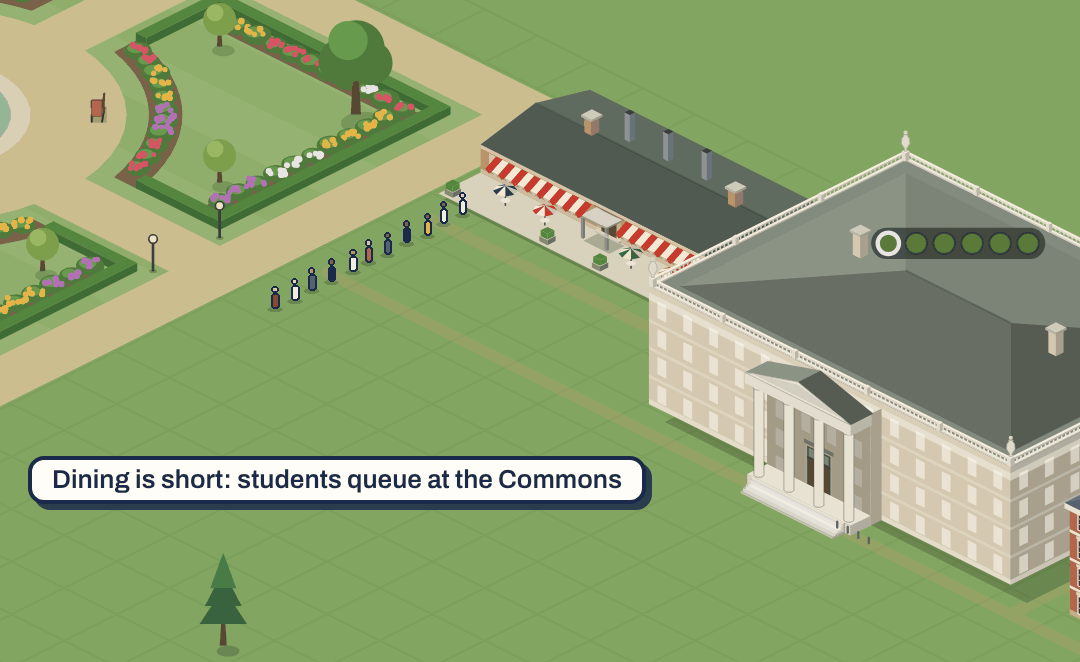
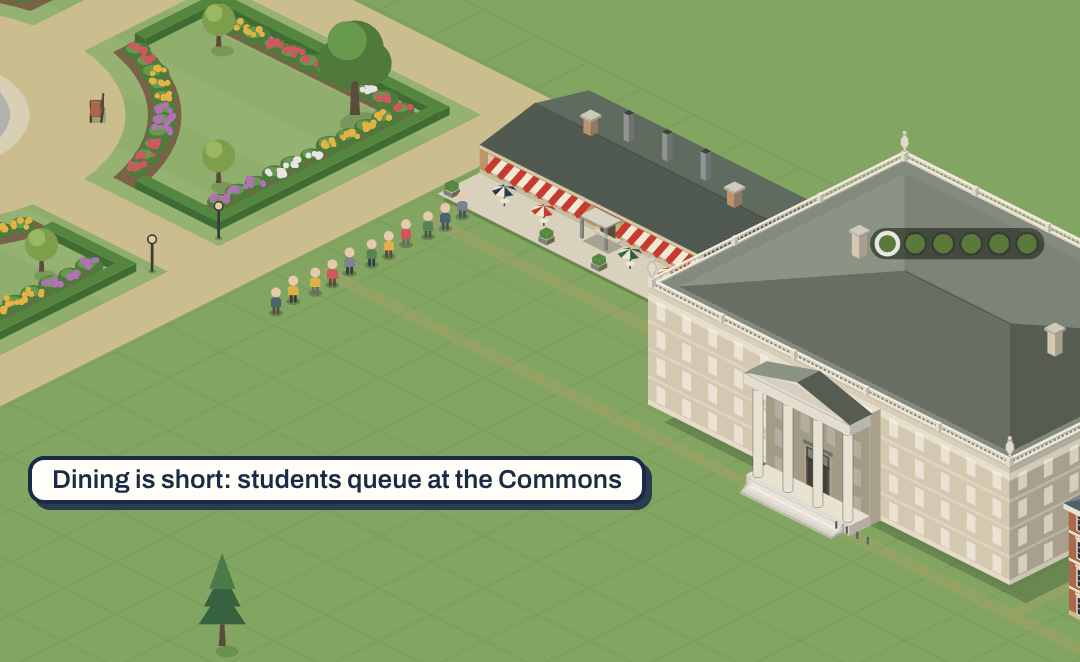
Plan 124: the owner's comments on the mock-ups (no prestige chip, no staked plot, dots not windows, walkers for crowds); a large path network and upgraded venues mocked
Claude-Session: https://claude.ai/code/session_01B1CvZALYnVja7ib6yhptH3

diff --git a/docs/plans/124-subtraction-as-decided/mockups.html b/docs/plans/124-subtraction-as-decided/mockups.html
@@ -42,6 +42,9 @@ figure img { width: 100%; height: auto; display: block; border: 1.5px solid var(
 figcaption { font: 500 12px var(--mono); letter-spacing: .06em; text-transform: uppercase; color: var(--muted); }
 figcaption b { color: var(--primary); font-weight: 500; }
 .say { margin: 0; max-width: 78ch; }
+.dec { justify-self: start; font: 600 12px var(--mono); letter-spacing: .05em; text-transform: uppercase; padding: 2px 9px; border-radius: 6px; border: 1.5px solid currentColor; }
+.dec.ok { color: #1f6b3a; } .dec.no { color: #a13a3a; } .dec.rev { color: #8a5a00; } .dec.ask { color: #3a4a8e; }
+.mock.dropped { opacity: .62; }
 .note { background: var(--note); border: 1.5px dashed var(--line); border-radius: 8px; padding: 10px 12px; max-width: 80ch; }
 .note strong { color: var(--primary); }
 footer { margin-top: 40px; font-size: 13px; color: var(--muted); max-width: 72ch; }
@@ -52,7 +55,7 @@ footer { margin-top: 40px; font-size: 13px; color: var(--muted); max-width: 72ch
   <header>
     <div class="eyebrow">Plan 124 · PRs J, K, L and M · before any code</div>
     <h1>What the additions will look like</h1>
-    <p class="lede">Each mock-up is the real game, from a saved run, shot as it is today and again with the proposed change drawn into the live page in the game's own fonts and colours. Map additions (paths, people, pennants, a staked plot) are painted over the screenshot. Numbers are the save's own except where a note says otherwise.</p>
+    <p class="lede"><b>Revised after your comments.</b> Each block says what you decided. The queue and the title crowd now use copies of the game's own walkers, there is a second path mock-up on a large campus, and a new one shows the fully upgraded stadium and multi-sport field on a game week. Each mock-up is the real game, from a saved run, shot as it is today and again with the proposed change drawn into the live page in the game's own fonts and colours. Map additions (paths, people, pennants, a staked plot) are painted over the screenshot. Numbers are the save's own except where a note says otherwise.</p>
     <nav aria-label="Jump to a PR"><a href="#pr-j">J · Growth lever</a><a href="#pr-k">K · Pillar bars</a><a href="#pr-l">L · Map carries the tabs</a><a href="#pr-m">M · Big moments</a></nav>
   </header>
 
@@ -62,6 +65,7 @@ footer { margin-top: 40px; font-size: 13px; color: var(--muted); max-width: 72ch
 
     <div class="mock">
       <h3>1. The admissions hall in course blocks</h3>
+      <span class="dec ask">Your comment: keep as is · read as no change, to confirm</span>
       <div class="pair">
         <figure><img src="j1-hall-before.png" alt="The admissions hall today: a grid of 143 empty seats" loading="lazy"><figcaption>Today</figcaption></figure>
         <figure><img src="j1-hall-after.png" alt="The hall with seats grouped into 16 blocks of nine, and a dashed gold block marked +80" loading="lazy"><figcaption><b>Proposed</b></figcaption></figure>
@@ -71,6 +75,7 @@ footer { margin-top: 40px; font-size: 13px; color: var(--muted); max-width: 72ch
 
     <div class="mock">
       <h3>2. "+80 places" beside the next Develop</h3>
+      <span class="dec ok">Approved</span>
       <div class="pair stack">
         <figure><img src="j2-develop-before.png" alt="A Curriculum row today: Develop button, cost and Choose" loading="lazy"><figcaption>Today</figcaption></figure>
         <figure><img src="j2-develop-after.png" alt="The same row with a green +80 places chip after the cost" loading="lazy"><figcaption><b>Proposed</b></figcaption></figure>
@@ -80,11 +85,23 @@ footer { margin-top: 40px; font-size: 13px; color: var(--muted); max-width: 72ch
 
     <div class="mock">
       <h3>3. The path network lights up while the path tool is held</h3>
+      <span class="dec rev">Revised: a larger network below</span>
       <div class="pair">
         <figure><img src="j3-paths-before.png" alt="The campus with the path tool armed, today" loading="lazy"><figcaption>Today</figcaption></figure>
         <figure><img src="j3-paths-after.png" alt="The same view: the cross path tinted gold, the fountain plaza untinted and labelled not joined yet" loading="lazy"><figcaption><b>Proposed</b></figcaption></figure>
       </div>
       <p class="say">Paths joined to Founders Hall turn gold; anything not joined stays plain, so a path that stops one tile short shows itself. In the real version a building's doorstep also lights when the network reaches it.</p>
+    </div>
+
+    <div class="mock">
+      <h3>3b. The same, on a year-30 campus</h3>
+      <span class="dec rev">New</span>
+      <div class="pair">
+        <figure><img src="j4-paths-before.png" alt="A large year-30 campus with a grid of paths, path tool armed" loading="lazy"><figcaption>Today</figcaption></figure>
+        <figure><img src="j4-paths-after.png" alt="The same campus: almost every path gold; one block at lower left plain, labelled not joined" loading="lazy"><figcaption><b>Proposed</b></figcaption></figure>
+      </div>
+      <p class="say">A campus of about 1,500 path tiles. Every path joined to Founders Hall is gold. The block at the lower left is cut off by one-tile gaps at the six places its walks met the rest, so it stays plain. That is the case a player can't see today. The tint here was made by re-rendering the joined tiles in another material and colouring exactly the pixels that changed, so it follows the paths behind trees and buildings.</p>
+      <p class="note"><strong>Note:</strong> the gaps were cut into a copy of the save for this mock-up; the real campus is fully joined.</p>
     </div>
   </section>
 
@@ -92,23 +109,21 @@ footer { margin-top: 40px; font-size: 13px; color: var(--muted); max-width: 72ch
     <div class="pr-head"><h2><span>K</span> · Prestige as four pillar bars</h2>
       <p>Today the links from curriculum, research, student life and athletics into prestige are only text in the summer review and History. One small figure carries them instead.</p></div>
 
-    <div class="mock">
+    <div class="mock dropped">
       <h3>1. The prestige chip</h3>
-      <div class="pair">
-        <figure><img src="k-chip-before.png" alt="The band today: Rank, Enrolled, Prestige 50.3, Satisfaction" loading="lazy"><figcaption>Today</figcaption></figure>
-        <figure><img src="k-chip-after.png" alt="The Prestige chip with a thin stacked bar and a tick under the number" loading="lazy"><figcaption><b>Proposed</b></figcaption></figure>
-      </div>
+      <span class="dec no">Not doing: the chip stays as it is</span>
       <p class="say">The bar under the number is prestige split by pillar: academics (navy), research (green), student life (maroon) and athletics (gold). The thin tick is where prestige is heading. The gap between the fill and the tick is the lag the summer's cap creates, which today nothing shows.</p>
     </div>
 
     <div class="mock">
       <h3>2. The same bar at the top of the tab that feeds it</h3>
+      <span class="dec ok">Approved</span>
       <div class="pair stack">
         <figure><img src="k-head-before.png" alt="The top of the Curriculum tab today" loading="lazy"><figcaption>Today</figcaption></figure>
         <figure><img src="k-head-after.png" alt="The top of the Curriculum tab with the academics bar lit and a short line of figures" loading="lazy"><figcaption><b>Proposed</b></figcaption></figure>
       </div>
       <p class="say">On Curriculum the academics part is lit and the others fade. Research, Students and Athletics do the same for theirs. At the summer the bars fill, in place of the "stands at N of 150" lines that PR B cuts.</p>
-      <p class="note"><strong>Note:</strong> the pillar split (25.6, 6.1, 13.3, 5.3) and the target (53.8) are illustrative; the save's total of 50.3 is real. The chip grew a few pixels taller here. The real one would fit the bar inside today's chip height, and needs checking at 1280×720.</p>
+      <p class="note"><strong>Note:</strong> the pillar split (25.6, 6.1, 13.3, 5.3) and the target (53.8) are illustrative; the save's total of 50.3 is real. With the chip left as it is, the tab's bar is the only place the split shows, and the target tick moves there.</p>
     </div>
   </section>
 
@@ -118,21 +133,23 @@ footer { margin-top: 40px; font-size: 13px; color: var(--muted); max-width: 72ch
 
     <div class="mock">
       <h3>1. A course with no teacher, on its hall</h3>
+      <span class="dec ok">Approved: the program's dot, not windows</span>
       <div class="pair">
         <figure><img src="l1-hall-before.png" alt="Founders Hall up close with its row of program dots above the roof" loading="lazy"><figcaption>Today</figcaption></figure>
         <figure><img src="l1-hall-after.png" alt="The same hall with one program dot turned dark with a dashed red ring" loading="lazy"><figcaption><b>Proposed</b></figcaption></figure>
       </div>
       <p class="say">The program's dot above the hall goes dark with a red ring while one of its courses has no teacher, and comes back when someone is appointed.</p>
-      <p class="note"><strong>A change from the plan, for you to confirm:</strong> the plan said "a dark window per course". At the closest zoom a window is three or four pixels wide, and darkening one barely shows; I tried it. The hall already has a dot per program, so darkening the dot reads at normal zoom and reuses a signal players know. I'd make PR L use the dot unless you'd rather keep windows.</p>
+      
     </div>
 
     <div class="mock">
       <h3>2. A queue at the door when a need is short</h3>
+      <span class="dec rev">Approved · revised: the game's own walkers</span>
       <div class="pair">
         <figure><img src="l2-commons-before.png" alt="The Original Commons with its terrace, today" loading="lazy"><figcaption>Today</figcaption></figure>
         <figure><img src="l2-commons-after.png" alt="The same view with a line of students queuing from the Commons' terrace" loading="lazy"><figcaption><b>Proposed</b></figcaption></figure>
       </div>
-      <p class="say">While dining is under 100, students line up at the dining hall's door; the clinic does the same for health. The line grows with the shortfall and clears when a new hall opens. The figures here are stand-ins; the real queue would use the game's walkers.</p>
+      <p class="say">While dining is under 100, students line up at the dining hall's door; the clinic does the same for health. The line grows with the shortfall and clears when a new hall opens. The queue is made of copies of the game's own walkers, at their real size.</p>
     </div>
   </section>
 
@@ -142,24 +159,35 @@ footer { margin-top: 40px; font-size: 13px; color: var(--muted); max-width: 72ch
 
     <div class="mock">
       <h3>1. A title hangs a pennant on its venue</h3>
+      <span class="dec rev">Approved · revised: the game's own walkers</span>
       <div class="pair">
         <figure><img src="m1-venue-before.png" alt="The sports field and track after a national title, today" loading="lazy"><figcaption>Today, the week of the title</figcaption></figure>
         <figure><img src="m1-venue-after.png" alt="The same field with a maroon and gold pennant on a pole and a crowd around the track" loading="lazy"><figcaption><b>Proposed</b></figcaption></figure>
       </div>
-      <p class="say">A pennant in the college's colours goes up at the venue for good, one per title, stacking. The week of the title the venue fills with a crowd. The title's page in the Inbox stays, as you chose.</p>
+      <p class="say">A pennant in the college's colours goes up at the venue for good, one per title, stacking. The week of the title the venue fills with a crowd. The title's page in the Inbox stays, as you chose. The crowd is copies of the game's own walkers.</p>
     </div>
 
     <div class="mock">
-      <h3>2. The specialization stakes its plot</h3>
-      <div class="pair">
-        <figure><img src="m2-spec-before.png" alt="The map right after confirming the research specialization, today" loading="lazy"><figcaption>Today, just after Confirm</figcaption></figure>
-        <figure><img src="m2-spec-after.png" alt="The same map with a dashed teal plot staked out on open lawn, labelled The Research Park will stand here" loading="lazy"><figcaption><b>Proposed</b></figcaption></figure>
+      <h3>1b. Fully upgraded venues, with crowds</h3>
+      <span class="dec rev">New</span>
+      <div class="pair four" style="grid-template-columns:1fr">
+        <figure><img src="venues-before.png" alt="The fully upgraded football stadium and multi-sport field in an ordinary week: empty stands" loading="lazy"><figcaption>Today, an ordinary week</figcaption></figure>
+        <figure><img src="venues-game.png" alt="The same venues in a home-game week: sparse coloured specks in the stands" loading="lazy"><figcaption>Today, a home-game week</figcaption></figure>
+        <figure><img src="venues-after.png" alt="Title week: the stands packed in maroon and gold, pennants along the stadium rim and the field's stand, walkers gathered outside and along the track" loading="lazy"><figcaption><b>Proposed</b>, the week of a title</figcaption></figure>
       </div>
+      <p class="say">The year-30 campus's Football Stadium at its full three upgrades and its Multi-Sport Field at two. In an ordinary week the stands are empty. In a home-game week the game already puts spectators in the stands, as small coloured specks. In a title week the stands pack in the college's colours, and walkers gather outside the stadium and along the track. One pennant per title hangs along the venue's rim and stays for good: six on the stadium and three on the field here, for illustration.</p>
+      <p class="note"><strong>To decide when building it:</strong> whether a regular home game should also show the stands fuller than today's specks. Here only the title week changes.</p>
+    </div>
+
+    <div class="mock dropped">
+      <h3>2. The specialization stakes its plot</h3>
+      <span class="dec no">Not doing</span>
       <p class="say">On Confirm the camera eases to where the pillar's capital project will stand, the plot is staked out in the pillar's colour, and the fanfare plays. The ticker line and the board's letter stay.</p>
     </div>
 
     <div class="mock">
       <h3>3. The Final Report, staged</h3>
+      <span class="dec ok">Approved</span>
       <div class="pair four">
         <figure><img src="m3-final-before.png" alt="The Final Report today, all at once" loading="lazy"><figcaption>Today: all at once</figcaption></figure>
         <figure><img src="m3-final-s1.png" alt="Staged report, first beat: grades not yet shown, students taught at zero" loading="lazy"><figcaption><b>Proposed</b> · it opens</figcaption></figure>

diff --git a/docs/plans/124-subtraction-as-decided.md b/docs/plans/124-subtraction-as-decided.md
@@ -317,8 +317,20 @@ catalogue hooks and its gate. Then:
 [`124-subtraction-as-decided/`](124-subtraction-as-decided/) and on a page,
 [Plan 124 Mock-ups](https://claude.ai/artifact/VZgQxXTB7Wxyvbp5Tas2aj). Making
 them showed one thing to change: a single window is too small to darken
-readably, so PR L's mock-up darkens the hall's program dot instead (awaiting
-the owner's word).
+readably, so PR L darkens the hall's program dot instead.
+
+**The owner's comments on the mock-ups (3 November 2026):**
+- J.1, the admissions hall in course blocks: "keep this as is". Read as no
+  change; awaiting the owner's confirmation.
+- J.2 and J.3: approved. J.3 gained a second mock-up on a large campus.
+- K: the prestige chip stays as it is. The tab heads are approved.
+- L: both approved, with the dot in place of windows. The queue uses the
+  game's own walkers.
+- M: the titles are approved, with crowds drawn as walkers. The
+  specialization's staked plot is not wanted. The staged Final Report is
+  approved.
+- Added at the owner's request: a mock-up of the fully upgraded stadium and
+  multi-sport field with crowds.
 
 The review's cards also proposed things to *add* in place of what they cut,
 and the cut list didn't ask about them. The owner agreed to all seven. Several
@@ -357,24 +369,25 @@ It needs a mock-up of the hall's rows before code. **M.**
 
 ### PR K — Prestige as four pillar bars (card 7, D-1, D-9b)
 
-1. **One figure.** Four short bars (academics, research, student life,
-   athletics) on the prestige chip, each to the pillar's weight. A ghost tick on
-   the chip shows where prestige is heading, the target, so the lag the
-   summer's rise cap creates is seen, not hidden. The two chips stay (H5).
-2. **At the head of the feeding tabs.** The same bar, alone, at the top of
-   Curriculum (academics), Research, Students (student life) and Athletics, so
-   the tab where the player works shows the pillar it feeds.
-3. **The summer.** The bars fill at the review, in place of the lines X8 cut.
+1. **At the head of the feeding tabs.** One stacked bar of prestige by
+   pillar (academics, research, student life, athletics) at the top of
+   Curriculum, Research, Students and Athletics. The tab's own pillar is lit and
+   the others are faded, with a line such as "25.6 of your 50.3 prestige ·
+   heading for 53.8". A ghost tick on the bar marks the target, so the lag the
+   summer's rise cap creates is seen. The prestige chip on the band stays as
+   it is (the owner, on the mock-ups).
+2. **The summer.** The bars fill at the review, in place of the lines X8 cut.
 
-It needs a design pass on the chip's size at 1280×720, and the colour-vision
-palette checked. **M.**
+The colour-vision palette needs checking. **M.**
 
 ### PR L — The map carries what the tabs say (card 8, E-4)
 
-1. **Dark windows.** A hall shows one dark window for each course taught there
-   that has no teacher, and the window lights when one is appointed.
-2. **Queues.** A short line of walkers waits at the door of a dining hall or a
-   clinic while that need is under 100.
+1. **Dark dots.** A program's dot above its hall goes dark, with a dashed red
+   ring, while one of its courses has no teacher, and comes back when one is
+   appointed. (Windows were mocked and are too small to read.)
+2. **Queues.** A short line of the game's own walkers waits at the door of a
+   dining hall or a clinic while that need is under 100, longer with the
+   shortfall.
 
 The words stay as PR F leaves them (M2): a count with an icon on faculty tiles,
 the bed and place counts on Students. The new marks are drawn in the map's art
@@ -383,13 +396,12 @@ in every vernacular. **M–L.**
 
 ### PR M — The big moments on the map (card 10, C-1, C-2, C-9)
 
-1. **Titles.** Each national title hangs a pennant in the college's colours on
-   its sport's venue, stacking, for good. The title's page stays (A2); the
-   venue fills with a crowd that week.
-2. **The specialization.** On Confirm, the camera eases to where the pillar's
-   capital project will stand, the plot is staked in the pillar's colour, and the
-   fanfare plays. The ticker line and the letter stay.
-3. **The Final Report.** It opens over the campus as it stands. The six grades
+1. **Titles.** Each national title hangs a pennant in the college's colours
+   along its venue's rim, stacking, for good. The title's page stays (A2). In
+   the week of the title, the venue's stands pack in the college's colours
+   (denser than a home game's crowd), and walkers gather outside the venue.
+   The crowd is the game's own walkers.
+2. **The Final Report.** It opens over the campus as it stands. The six grades
    stamp in one by one (`GradeMark`, a `tick` each), "Students taught" counts up,
    and the fanfare plays on the final grade. The fanfare moves from the 50th
    admissions' resolve (`resolveAdmissions.ts:79`) to the reveal.
